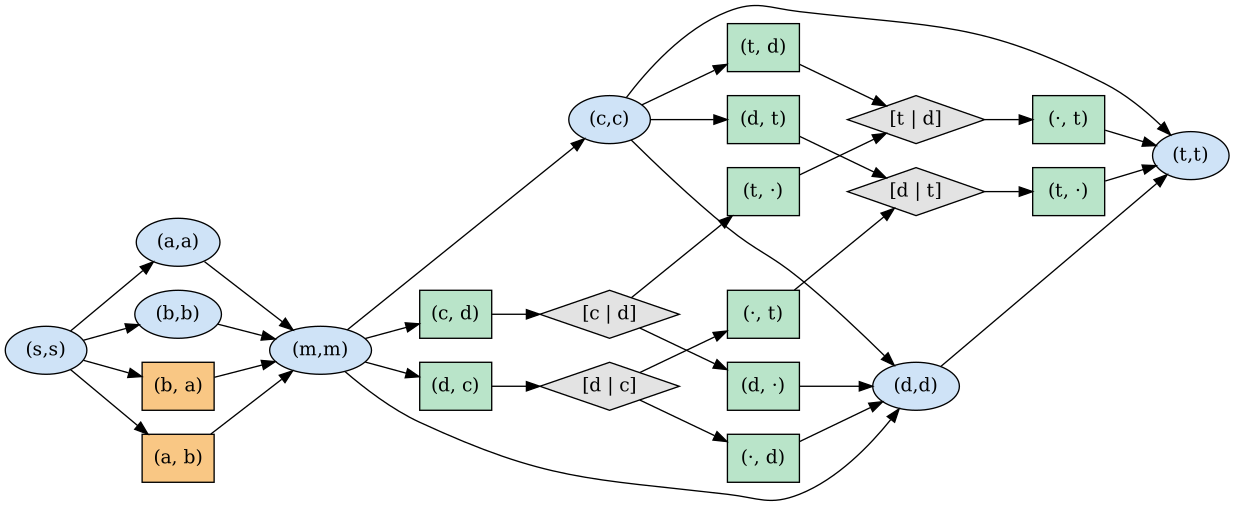
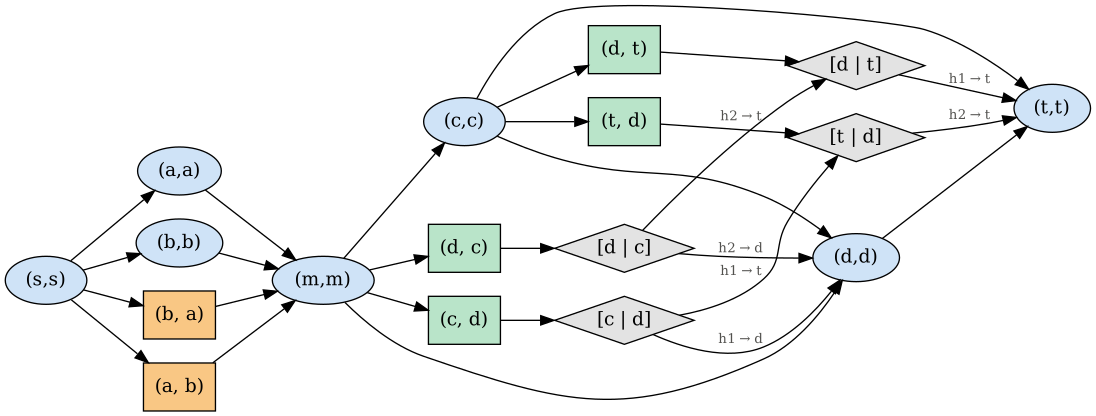
Simpler W-motif figure: single-haplotype moves drawn as labelled arrows

diff --git a/src/diploidgraph/export.py b/src/diploidgraph/export.py
@@ -56,15 +56,25 @@ def _seg_label(seg, with_sink: bool) -> str:
     return (inner + str(seg.sink)) if with_sink else (inner or "-")
 
 
-def diploid_graph_dot(gd: DiploidGraph, name: str = "GD") -> str:
+def diploid_graph_dot(gd: DiploidGraph, name: str = "GD", compact_steps: bool = True) -> str:
     """Blue ellipses: homozygous copy (v,v). Orange boxes: P-node pairs of branches.
-    Green boxes: core forks and steps (segments end at the named vertex).
-    Grey diamonds: core pair states [hap1 vertex | hap2 vertex]."""
-    lines = [f"digraph {name} {{", "  rankdir=LR;", "  node [style=filled];"]
+    Green boxes: core forks (the two haplotypes separate). Grey diamonds: core pair
+    states [hap1 vertex | hap2 vertex].
+
+    With compact_steps (default), a step vertex (one haplotype moves along a core
+    edge while the other waits) is drawn as a labelled arrow instead of a box:
+    "h1 → t" means haplotype 1 moves to t.
+    """
+    lines = [f"digraph {name} {{", "  rankdir=LR;", "  node [style=filled];",
+             '  edge [fontsize=10, fontcolor="#52514e"];']
     ids: Dict = {}
+    hidden = set()
     for k, v in enumerate(gd.succ):
         ids[v] = f"n{k}"
         kind = v[0]
+        if kind == "step" and compact_steps:
+            hidden.add(v)
+            continue
         if kind == "hom":
             label, shape, color = f"({v[1]},{v[1]})", "ellipse", HOM_COLOR
         elif kind == "pair":
@@ -76,7 +86,15 @@ def diploid_graph_dot(gd: DiploidGraph, name: str = "GD") -> str:
             shape, color = "box", (HET_COLOR if kind == "het" else CORE_COLOR)
         lines.append(f'  n{k} [label={_q(label)}, shape={shape}, fillcolor="{color}"];')
     for a, outs in gd.succ.items():
+        if a in hidden:
+            continue
         for b in sorted(outs, key=str):  # stable output across runs
-            lines.append(f"  {ids[a]} -> {ids[b]};")
+            if b in hidden:
+                gad = gd.gadget[b]
+                hap, seg = (1, gad.seg1) if gad.seg1 is not None else (2, gad.seg2)
+                (c,) = gd.succ[b]
+                lines.append(f"  {ids[a]} -> {ids[c]} [label={_q(f'h{hap} \u2192 {_seg_label(seg, True)}')}];")
+            else:
+                lines.append(f"  {ids[a]} -> {ids[b]};")
     lines.append("}")
     return "\n".join(lines)

diff --git a/examples/README.md b/examples/README.md
@@ -21,9 +21,10 @@ the figures and the table below in `examples/out/`.
 input: both haplotypes at `v`. Orange boxes `(x, y)` are heterozygous vertices of a
 P-node: haplotype 1 crosses the bubble through branch `x`, haplotype 2 through
 branch `y` (`-` is a direct edge; nested alternatives are written `(b|c)`). In the
-non-series-parallel example, green boxes move one or both haplotypes along a core
-edge to the named vertex (`·` = this haplotype waits), and grey diamonds
-`[u | v]` are pair states: haplotype 1 at `u`, haplotype 2 at `v`.
+non-series-parallel example, a green box `(c, d)` is where the two haplotypes
+separate (haplotype 1 goes to `c`, haplotype 2 to `d`), a grey diamond `[u | v]` is
+a pair state (haplotype 1 at `u`, haplotype 2 at `v`), and an arrow labelled
+`h1 → t` moves haplotype 1 to `t` while haplotype 2 waits, until both meet again.
 
 ## 1. One bubble (SNP)
 
@@ -64,7 +65,8 @@ A larger random example with four nested bubbles.
 
 A bubble `s -> {a, b} -> m`, then a W-motif with diagonal edge `c -> d`. The bubble
 is handled as in example 1; inside the W-motif the two haplotypes are followed with
-pair states until they meet again at `d` or `t`.
+pair states until they meet again at `d` or `t`. The 6 single-haplotype moves are drawn as
+labelled arrows; in the table they are counted as vertices (16 new vertices in total).
 
 <img src="out/06_w_motif_input.png" height="130"><br>
 <img src="out/06_w_motif_diploid.png" width="100%">
